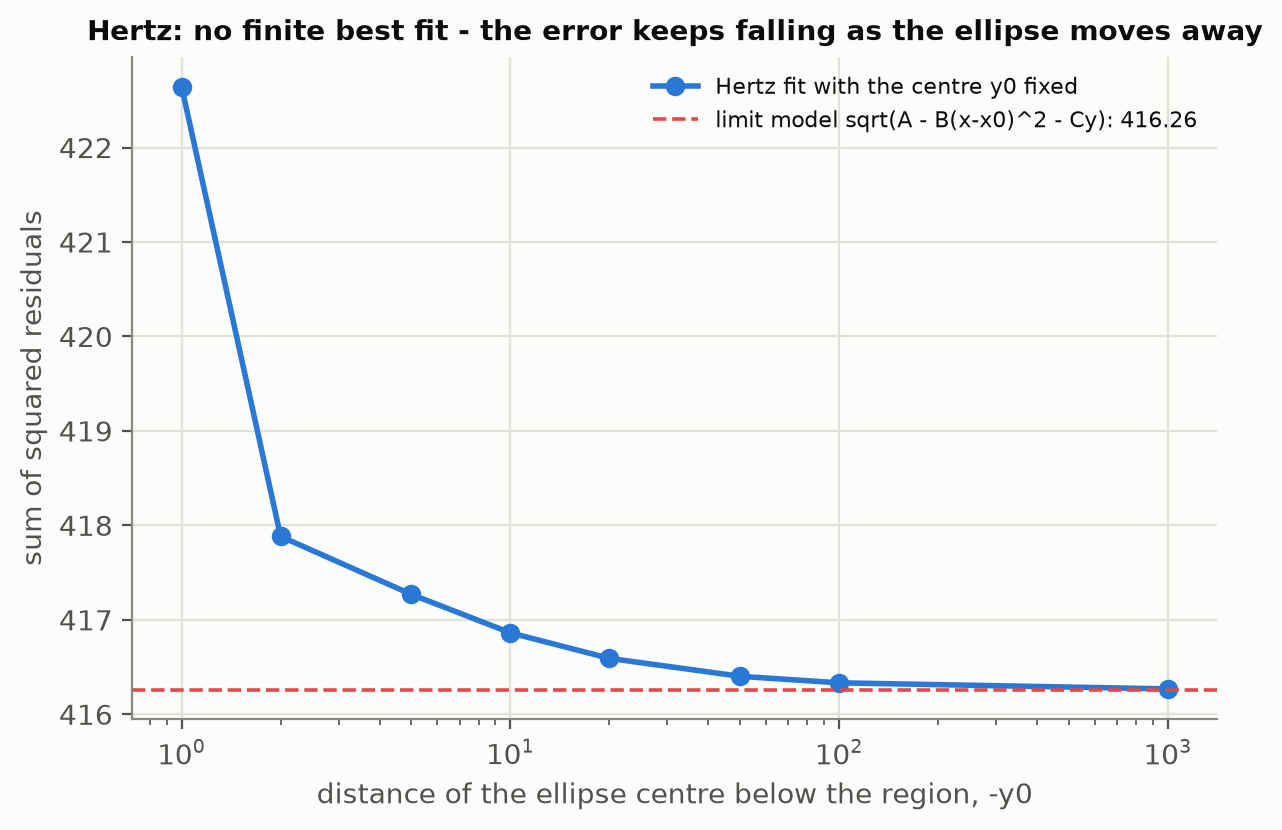
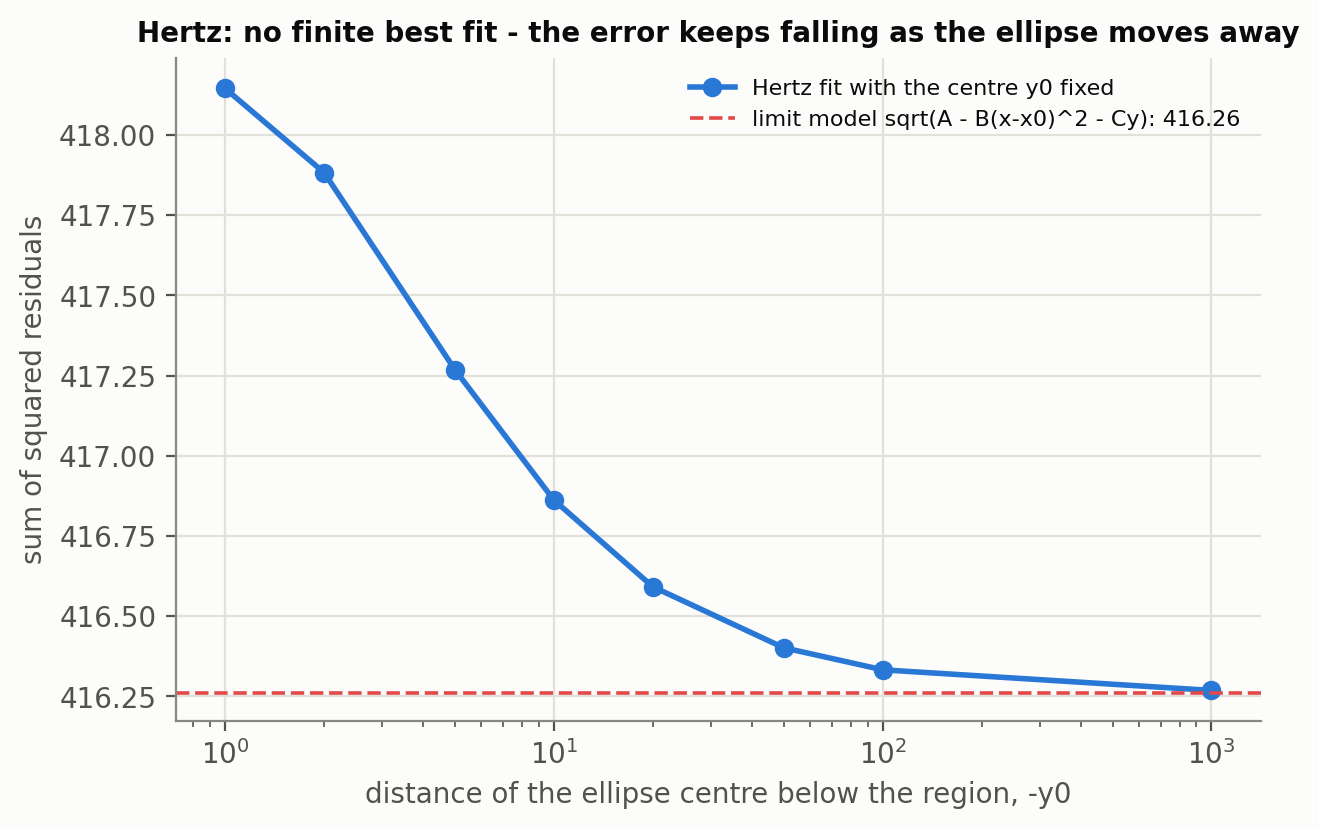
Fix Hertz Jacobian, LOO bound check and Newton labels
对 physical-contact-models 的审阅修正。

- `Hertz.jac`：椭圆外的传感器 p 恒为 0，数据行导数应为 0。原来 s 被截断为 1e-6，
  这些行的导数达到约 4e7，与残差不一致，使 LM 停滞：
  - Table 2 的 y0 = −1 原来跑满 5000 次未收敛（SSE 422.64，S1 已在椭圆外）；
    现在 15 次收敛，SSE 418.14，b = 34.7。其余 7 行不变。
  - A1 的 100 个初值现在全部到达最优（原来 52%），耗时 35 s → 1.8 s。
- 留一法：原来只检查 σ 是否碰界，现在检查所有参数（`bounds_hit`、`finite_rule_answer`）。
  S1、S4 两折的最大 σ 解在 A = 2000 的上界上，放大上界后 σ 继续增大
  （S1：2.14 → 3.08；S4：1.18 → 1.66，预测 514 → 844），规则没有有限解，不再计入
  RMSE_ext。S3、S5 落在 R = 0（退化为单峰高斯，是模型族的边界）。
  RMSE_ext 249.9 → 36.9（只统计 S3、S5）。S2 不变。
- `newton_nd`：只对收敛的点分类，未收敛标为 "not converged"；特征值都约为 0 时判为 flat。
  报告 6.3 节改为：三个起点落入距中心 r* ≈ 0.0961 的 2-周期。
- `requirements.txt` 固定版本（Python 3.12）；新增 4 个测试。
- 用固定版本重跑 run_contact.py，results/ 和 figures/ 一并更新。其余结果只有末位数字
  变化；scipy 对照的命中率 88% → 87%，已同步到报告。

测试：本地 17 个测试中 16 个通过。失败的是新测试自己的前提写错（S3 的 q = 0.944，
不满足 q < 0.9），已改参数；用逐行相同的副本确认修正后通过、旧 Jacobian 下不通过，
但尚未用 pytest 重跑，合并前请再跑一次。

diff --git a/physical_contact_models/run_contact.py b/physical_contact_models/run_contact.py
@@ -25,8 +25,8 @@ from scipy.optimize import least_squares, linprog
 
 import data
 import plotting as P
-from models import (HULL, PR, S2, SEED, X, Y, Hertz, Ring, distinct_exact, edge_max, fit,
-                    hull_y_interval, ring_hull_max, ring_hull_min, select_largest_sigma, sse)
+from models import (HULL, PR, S2, SEED, X, Y, Hertz, Ring, bounds_hit, distinct_exact, edge_max, finite_rule_answer,
+                    fit, hull_y_interval, ring_hull_max, ring_hull_min, select_largest_sigma, sse)
 from numerics.nlls import levenberg_marquardt, multistart_lm
 from numerics.optimize import newton_nd, project_to_polygon, projected_steepest_ascent
 from numerics.rootfind import bisection, newton_raphson, scan_brackets
@@ -111,7 +111,7 @@ def a2_hertz_limit(nums):
         r = levenberg_marquardt(lambda t: Hertz.residual(t, X, Y, PR), start, lo, hi,
                                 jac=lambda t: Hertz.jac(t, X, Y), max_iter=5000)
         rows.append({"y0_fixed": y0, **dict(zip(Hertz.names, r["theta"])), "SSE": sse(Hertz, r["theta"]),
-                     "iterations": r["iterations"]})
+                     "iterations": r["iterations"], "converged": r["converged"]})
     nums["hertz_limit"] = {"A": A, "B": B, "x0": xl, "C": C, "SSE": float(np.sum(res_lim(lim["theta"]) ** 2)),
                            "pred": (res_lim(lim["theta"]) + PR).tolist()}
     return rows
@@ -139,7 +139,11 @@ def b1_solutions(nums, n_starts):
 
 def b2_validation(nums, n_starts):
     """4 training points, 5 parameters: a family of exact fits.  Report its prediction range and the
-    prediction of the fit selected by the same rule (largest sigma)."""
+    prediction of the fit selected by the same rule (largest sigma).
+
+    If the selected fit sits on an artificial cap of the search box, the rule has no finite answer:
+    the fold is re-solved with the A cap raised 10x and 100x to show that sigma and the prediction keep
+    moving, and it is left out of RMSE_ext / MAE_ext."""
     rows = []
     for i in range(5):
         tr = np.array([j for j in range(5) if j != i])
@@ -148,16 +152,30 @@ def b2_validation(nums, n_starts):
         preds = np.array([Ring.f(t, X[i], Y[i]) for t in sols]) if sols else np.array([np.nan])
         ch = select_largest_sigma(sols, X[tr], Y[tr], PR[tr])
         sel = float(Ring.f(ch, X[i], Y[i])) if ch is not None else np.nan
-        rows.append({"left_out": data.NAMES[i], "type": "interpolation" if i == S2 else "extrapolation",
-                     "true_p": PR[i], "pred_selected": sel, "abs_error_selected": abs(sel - PR[i]),
-                     "sigma_selected": ch[4] if ch is not None else np.nan,
-                     "selected_on_sigma_bound": bool(ch is not None and ch[4] > 0.999 * Ring.upper[4]),
-                     "n_distinct_exact_fits": len(sols), "pred_min": float(np.nanmin(preds)),
-                     "pred_median": float(np.nanmedian(preds)), "pred_max": float(np.nanmax(preds))})
-    ext = [r for r in rows if r["type"] == "extrapolation"]
+        finite = bool(ch is not None and finite_rule_answer(ch))
+        row = {"left_out": data.NAMES[i], "type": "interpolation" if i == S2 else "extrapolation",
+               "true_p": PR[i], "pred_selected": sel, "abs_error_selected": abs(sel - PR[i]),
+               "sigma_selected": ch[4] if ch is not None else np.nan,
+               "bounds_hit": ", ".join(bounds_hit(ch)) if ch is not None else "",
+               "rule_has_finite_answer": finite,
+               "n_distinct_exact_fits": len(sols), "pred_min": float(np.nanmin(preds)),
+               "pred_median": float(np.nanmedian(preds)), "pred_max": float(np.nanmax(preds))}
+        if ch is not None and not finite:
+            t = ch
+            for factor in (10, 100):
+                hi = Ring.upper.copy()
+                hi[0] *= factor
+                t = select_largest_sigma([t], X[tr], Y[tr], PR[tr], upper=hi)
+                row[f"sigma_A_cap_x{factor}"] = t[4]
+                row[f"pred_A_cap_x{factor}"] = float(Ring.f(t, X[i], Y[i]))
+        rows.append(row)
+    ext = [r for r in rows if r["type"] == "extrapolation" and r["rule_has_finite_answer"]]
     e = np.array([r["pred_selected"] - r["true_p"] for r in ext])
     nums["ring_validation"] = {"S2": rows[S2], "RMSE_ext": float(np.sqrt(np.mean(e ** 2))),
-                               "MAE_ext": float(np.mean(np.abs(e)))}
+                               "MAE_ext": float(np.mean(np.abs(e))),
+                               "ext_folds_used": [r["left_out"] for r in ext],
+                               "folds_without_finite_answer": [r["left_out"] for r in rows
+                                                               if not r["rule_has_finite_answer"]]}
     return rows
 
 

diff --git a/physical_contact_models/models.py b/physical_contact_models/models.py
@@ -53,12 +53,15 @@ class Hertz:
 
     @classmethod
     def jac(cls, t, x, y):
-        """Analytic Jacobian of ``residual`` (data rows, then penalty rows)."""
+        """Analytic Jacobian of ``residual`` (data rows, then penalty rows).
+
+        A sensor outside the ellipse has p = 0 whatever theta is, so its data row is zero there."""
         p0, x0, y0, a, b = t
         qq = cls.q(t, x, y)
         s = np.sqrt(np.maximum(1e-12, 1 - qq))
         Jd = np.column_stack([s, p0 * (x - x0) / (a * a * s), p0 * (y - y0) / (b * b * s),
                               p0 * (x - x0) ** 2 / (a ** 3 * s), p0 * (y - y0) ** 2 / (b ** 3 * s)])
+        Jd = Jd * (qq < 1)[:, None]
         dq = np.column_stack([np.zeros_like(x), -2 * (x - x0) / a ** 2, -2 * (y - y0) / b ** 2,
                               -2 * (x - x0) ** 2 / a ** 3, -2 * (y - y0) ** 2 / b ** 3])
         return np.vstack([Jd, cls.W * dq * ((qq - (1 - cls.DELTA)) > 0)[:, None]])
@@ -139,32 +142,57 @@ def distinct_exact(model, runs, x, y, p):
     return sols, counts
 
 
-def select_largest_sigma(sols, x=None, y=None, p=None, n_refine=5):
+def select_largest_sigma(sols, x=None, y=None, p=None, n_refine=5, upper=None):
     """Selection rule fixed before looking at (b)/(c): among the exact fits take the broadest ring.
 
     With 5 points the exact fits are isolated, so the largest sampled sigma is the answer.  With 4
     points they form a continuous family and sampling only approximates the largest sigma; then
     (x, y, p given) the best candidates are refined by solving
         maximize sigma  subject to  f(theta; x_i, y_i) = p_i  for every training point
-    with SLSQP (equality constraints).  A result on the sigma bound means the rule has no finite
-    answer for that data set; it is reported as such.
+    with SLSQP (equality constraints), within the bounds Ring.lower .. ``upper`` (default Ring.upper).
+    If the result sits on an artificial cap (see ``finite_rule_answer``), sigma would keep growing
+    with a larger cap: the rule then has no finite answer for that data set.
     """
     if not sols:
         return None
     if x is None:
         return max(sols, key=lambda t: t[4])
     from scipy.optimize import minimize
+    hi = Ring.upper if upper is None else np.asarray(upper, float)
     cons = {"type": "eq", "fun": lambda t: Ring.f(t, x, y) - p, "jac": lambda t: Ring.jac(t, x, y)}
     best = max(sols, key=lambda t: t[4])
     for t0 in sorted(sols, key=lambda t: -t[4])[:n_refine]:
         with warnings.catch_warnings():
             warnings.simplefilter("ignore")
             r = minimize(lambda t: -t[4], t0, jac=lambda t: np.array([0, 0, 0, 0, -1.0]), method="SLSQP",
-                         constraints=[cons], bounds=list(zip(Ring.lower, Ring.upper)),
+                         constraints=[cons], bounds=list(zip(Ring.lower, hi)),
                          options={"maxiter": 1000, "ftol": 1e-14})
         if sse(Ring, r.x, x, y, p) < 1e-8 and r.x[4] > best[4]:
             best = r.x
     return best
+
+
+# R = 0 turns the ring into a single Gaussian bump and A = 0 is zero pressure: edges of the model
+# family.  Every other bound is an arbitrary cap of the search box.
+NATURAL_BOUNDS = {("A", "lower"), ("R", "lower")}
+
+
+def bounds_hit(t, upper=None, rel=1e-6):
+    """Ring parameters of t that sit on a bound, e.g. ["A upper", "R lower"]."""
+    hi = Ring.upper if upper is None else np.asarray(upper, float)
+    out = []
+    for n, v, lo, up in zip(Ring.names, t, Ring.lower, hi):
+        w = rel * (up - lo)
+        if v - lo <= w:
+            out.append(f"{n} lower")
+        elif up - v <= w:
+            out.append(f"{n} upper")
+    return out
+
+
+def finite_rule_answer(t, upper=None):
+    """False if the largest-sigma fit sits on an artificial cap, i.e. the rule has no finite answer."""
+    return all(tuple(b.split()) in NATURAL_BOUNDS for b in bounds_hit(t, upper))
 
 
 # =============================================================================== geometry / extrema

diff --git a/physical_contact_models/tests/test_contact.py b/physical_contact_models/tests/test_contact.py
@@ -3,7 +3,7 @@ contact models (known answers)."""
 import numpy as np
 
 import data
-from models import Hertz, Ring, distinct_exact, fit, ring_hull_max, select_largest_sigma
+from models import Hertz, Ring, bounds_hit, distinct_exact, finite_rule_answer, fit, ring_hull_max, select_largest_sigma
 from numerics.nlls import levenberg_marquardt, numerical_jacobian
 from numerics.optimize import newton_nd, parabolic_max, project_to_polygon, projected_steepest_ascent
 from numerics.rootfind import bisection, newton_raphson, scan_brackets
@@ -124,3 +124,47 @@ def test_own_lm_and_scipy_reach_the_same_hertz_optimum():
     ref, _, on_bound = scipy_hertz_multistart()
     assert abs(sse(Hertz, s["theta"]) - sse(Hertz, ref)) < 1e-6
     assert "y0" in on_bound   # the optimum sits on the y0 bound: the ellipse wants to grow without limit
+
+
+def test_hertz_jacobian_is_zero_for_sensors_outside_the_ellipse():
+    # S1 and S4 lie outside this ellipse (q > 1.1), the other three inside (q < 0.9): p = 0 at S1 and S4
+    # for every nearby theta, so their data rows must be zero; the active penalty rows are checked too
+    th = np.array([40.0, 1.3, 1.0, 1.2, 1.3])
+    q = Hertz.q(th, data.X, data.Y)
+    assert np.sum(q > 1.1) == 2 and np.sum(q < 0.9) == 3
+    np.testing.assert_allclose(Hertz.jac(th, data.X, data.Y),
+                               numerical_jacobian(lambda t: Hertz.residual(t, data.X, data.Y, data.P), th), atol=1e-4)
+
+
+def test_hertz_profile_fits_all_converge_and_decrease():
+    from run_contact import a2_hertz_limit
+    nums = {}
+    rows = a2_hertz_limit(nums)
+    assert all(r["converged"] for r in rows)
+    sse_profile = [r["SSE"] for r in rows]           # y0 = -1, -2, -5, ..., -1000
+    assert all(a > b for a, b in zip(sse_profile, sse_profile[1:]))
+    assert sse_profile[-1] > nums["hertz_limit"]["SSE"]
+
+
+def test_newton_nd_classifies_only_converged_points():
+    # p = x^4 - y^4: the Hessian vanishes at the stationary point, so the second-order test says nothing
+    grad = lambda v: np.array([4 * v[0] ** 3, -4 * v[1] ** 3])  # noqa: E731
+    hess = lambda v: np.diag([12 * v[0] ** 2, -12 * v[1] ** 2])  # noqa: E731
+    assert newton_nd(grad, hess, (1.0, 1.0), max_iter=5)["kind"] == "not converged"
+    r = newton_nd(grad, hess, (1.0, 1.0), max_iter=200)
+    assert r["converged"] and r["kind"].startswith("flat")
+
+
+def test_loo_rule_on_the_A_cap_has_no_finite_answer():
+    # S4 left out: the largest-sigma exact fit sits on the cap A = 2000, and a larger cap gives a larger sigma
+    tr = np.array([0, 1, 2, 4])
+    x, y, p = data.X[tr], data.Y[tr], data.P[tr]
+    seed = np.array([2000.0, 0.3976, 0.3784, 4.7869, 1.1760])
+    t1 = select_largest_sigma([seed], x, y, p)
+    np.testing.assert_allclose(Ring.f(t1, x, y), p, atol=1e-7)
+    assert "A upper" in bounds_hit(t1) and not finite_rule_answer(t1)
+    hi = Ring.upper.copy()
+    hi[0] *= 10
+    t2 = select_largest_sigma([t1], x, y, p, upper=hi)
+    np.testing.assert_allclose(Ring.f(t2, x, y), p, atol=1e-7)
+    assert t2[4] > t1[4] + 0.1

diff --git a/physical_contact_models/numerics/optimize.py b/physical_contact_models/numerics/optimize.py
@@ -9,7 +9,8 @@ parabolic_max(f, a, b)
 
 newton_nd(grad, hess, x0)
     x_{k+1} = x_k - H^{-1} grad.  Finds a STATIONARY point (maximum, minimum or saddle); the
-    eigenvalues of the Hessian at the result classify it.  It ignores constraints.
+    eigenvalues of the Hessian at the result classify it.  Only a converged result is classified;
+    otherwise ``kind`` is "not converged".  It ignores constraints.
 
 projected_steepest_ascent(f, grad, project, x0)
     x_trial = P(x_k + alpha grad f(x_k)), P = projection onto the feasible set.  Backtracking:
@@ -66,18 +67,22 @@ def newton_nd(grad, hess, x0, tol=1e-12, max_iter=50):
         if np.linalg.norm(step) < tol:
             conv = True
             break
-    ev = np.linalg.eigvalsh(hess(x))
+    ev = np.linalg.eigvalsh(hess(x)) if np.all(np.isfinite(x)) else np.full(len(x), np.nan)
     zero = np.abs(ev) <= 1e-6 * max(1.0, np.abs(ev).max())
-    if np.all(ev < 0) and not zero.any():
+    if not conv:
+        kind = "not converged"
+    elif zero.all():
+        kind = "flat (all eigenvalues ~ 0)"
+    elif np.all(ev < 0) and not zero.any():
         kind = "maximum"
     elif np.all(ev > 0) and not zero.any():
         kind = "minimum"
-    elif np.all((ev < 0) | zero) and not zero.all():
+    elif np.all((ev < 0) | zero):
         kind = "degenerate maximum (semi-definite Hessian, non-isolated)"
-    elif np.all((ev > 0) | zero) and not zero.all():
+    elif np.all((ev > 0) | zero):
         kind = "degenerate minimum (semi-definite Hessian, non-isolated)"
     else:
-        kind = "saddle" if (ev.min() < 0 < ev.max()) else "flat (all eigenvalues ~ 0)"
+        kind = "saddle"
     return {"x": x, "iterations": it, "converged": conv, "eig": ev, "kind": kind}
 
 

diff --git a/physical_contact_models/report/physical_contact_models.md b/physical_contact_models/report/physical_contact_models.md
@@ -40,10 +40,12 @@ gradient are frozen for that step (active set). We ran the solver from 100 rando
 
 | Solver | p0 | x0 | y0 | a | b | SSE | runs reaching the best SSE |
 |---|---|---|---|---|---|---|---|
-| Levenberg–Marquardt (own) | 35.06 | 1.731 | **−5.00 (bound)** | 1.790 | 22.38 | 417.27 | 52 % |
-| scipy trust-region (check) | 35.06 | 1.731 | −5.00 (bound) | 1.790 | 22.38 | 417.27 | 88 % |
+| Levenberg–Marquardt (own) | 35.06 | 1.731 | **−5.00 (bound)** | 1.790 | 22.38 | 417.27 | 100 % |
+| scipy trust-region (check) | 35.06 | 1.731 | −5.00 (bound) | 1.790 | 22.38 | 417.27 | 87 % |
 
-Both solvers reach the same optimum. The fitted pressures at S1–S5 are 2.19, 32.66, 33.98, 29.52 and 26.60,
+Both solvers reach the same optimum. (The analytic Jacobian is zero for a sensor outside the ellipse,
+where p = 0 whatever the parameters are. Before this was imposed, only about half of the starts reached
+the best SSE.) The fitted pressures at S1–S5 are 2.19, 32.66, 33.98, 29.52 and 26.60,
 compared with the measured 2, 17, 43, 28 and 36 (RMSE 9.14). **The Hertz model cannot pass through the
 data.**
 
@@ -71,10 +73,10 @@ values and refitted the remaining parameters (Table 2, Fig. 1).
 
 | y0 | −1 | −2 | −5 | −10 | −20 | −50 | −100 | −1000 |
 |---|---|---|---|---|---|---|---|---|
-| SSE | 422.64 | 417.88 | 417.27 | 416.86 | 416.59 | 416.40 | 416.33 | 416.27 |
-| b | 41.8 | 20.8 | 22.4 | 28.7 | 40.7 | 73.3 | 124.8 | 1026.8 |
+| SSE | 418.14 | 417.88 | 417.27 | 416.86 | 416.59 | 416.40 | 416.33 | 416.27 |
+| b | 34.7 | 20.8 | 22.4 | 28.7 | 40.7 | 73.3 | 124.8 | 1026.8 |
 
-The error keeps decreasing as the ellipse moves away. Expanding the model for $y_0\to-\infty$,
+All eight fits converge with every sensor inside the ellipse. The error keeps decreasing as the ellipse moves away. Expanding the model for $y_0\to-\infty$,
 $b\to\infty$ gives the four-parameter limit
 
 $$p = \sqrt{A - B(x-x_0)^2 - C\,y},$$
@@ -149,28 +151,34 @@ the full range over all four exact fits alongside every result for the selected 
 With four training points the five parameters are underdetermined, and the exact fits form a continuous
 family. The same rule was applied: maximise σ subject to the fit passing exactly through the four points.
 This was solved as an equality-constrained optimisation (SLSQP), started from the best of 1000 sampled
-exact fits. In every fold the maximum lies strictly inside the parameter bounds, so the rule has a
-well-defined answer.
+exact fits. Only in the S2 fold does the maximum lie strictly inside the parameter bounds. In the S3 and S5
+folds it lies at R = 0, where the ring degenerates into a single Gaussian peak; this is an edge of the model
+family, so the rule still has a well-defined answer. In the S1 and S4 folds it lies on the amplitude cap
+A = 2000 of the search box. Raising that cap raises σ further (S1: 2.14 → 3.08, S4: 1.18 → 1.66 for a
+cap 100 times larger), so the rule has **no finite answer** there, and the prediction only reflects the
+arbitrary cap.
 
 **Table 4 Leave-one-out validation of the ring model**
 
 | Left out | Type | True p | Prediction (selected fit) | Abs. error | Prediction range over all exact fits |
 |---|---|---|---|---|---|
 | S2 | interpolation | 17 | 32.97 | 15.97 | 0.01 – 159.8 |
-| S1 | extrapolation | 2 | 106.68 | 104.68 | 0.00 – 106.7 |
+| S1 | extrapolation | 2 | no finite answer (106.7 at A ≤ 2000, 113.7 at A ≤ 2·10⁵) | — | 0.00 – 106.7 |
 | S3 | extrapolation | 43 | 1.44 | 41.56 | 0.00 – 117.0 |
-| S4 | extrapolation | 28 | 513.97 | 485.97 | 0.00 – 514.0 |
+| S4 | extrapolation | 28 | no finite answer (514.0 at A ≤ 2000, 843.5 at A ≤ 2·10⁵) | — | 0.00 – 514.0 |
 | S5 | extrapolation | 36 | 4.34 | 31.66 | 0.00 – 188.5 |
 
-Over the four extrapolation folds, RMSE_ext = 249.9 and MAE_ext = 166.0.
+Over the two extrapolation folds with a finite answer (S3, S5), RMSE_ext = 36.9 and MAE_ext = 36.6; for
+S1 and S4 the rule gives no prediction at all. The upper ends of the S1 and S4 ranges are the capped fits
+and would also grow with the cap.
 
 Two points must be stated clearly.
 
 1. **The S2 test is not independent for this model.** The ring model was chosen *because* S2 is a local
    low (Section 1.3). The data point used to validate the model therefore also motivated it.
 2. **Four points do not constrain the ring.** The exact four-point fits predict anything from 0 to 160 at
-   S2, so the selected fit's error of 16.0 reflects the selection rule as much as the model. The
-   extrapolation errors are extreme. A ring fitted to four points can put its crest almost anywhere.
+   S2, so the selected fit's error of 16.0 reflects the selection rule as much as the model. In two of
+   the four extrapolation folds the rule does not even give a finite prediction.
 
 ---
 
@@ -256,11 +264,13 @@ applied parabolic interpolation inside the bracket around the best sample. The r
 Newton's method solves $\nabla p = 0$ and therefore finds stationary points of any type. From five
 starting points inside the hull, (0.5, 0.5), (1.0, 1.0), (1.5, 0.5), (1.5, 1.5) and (2.0, 1.0):
 
-- **Three starts are attracted to the ring centre (0.47, 0.45),** the location of the minimum. They do not
-  converge. After 100 iterations they still wander at distance ≈ 0.1 from the centre (p ≈ 0.28, Hessian
-  eigenvalues 8.43 and 16.86, i.e. minimum-like curvature). The reason is that $r$ is not differentiable
-  at the centre (the surface has a small cone-shaped tip there), so $\nabla p=0$ has no solution at that
-  point.
+- **Three starts fall into a period-2 cycle around the ring centre (0.47, 0.45),** the location of the
+  minimum. They jump back and forth between two points on opposite sides of the centre, at distance
+  r* ≈ 0.0961 (p ≈ 0.28). Near the centre p depends on r only, and at r* the radial Newton step maps r to
+  −r. The cause is that $r$ is not differentiable at the centre (the surface has a small cone-shaped tip
+  there), so $\nabla p=0$ has no solution at that point. The Hessian at the cycle points has eigenvalues
+  8.43 and 16.86 (ratio exactly 2, a consequence of the cycle condition), which look like a minimum, but
+  the iteration does not converge and is reported as "not converged".
 - **One start drifts far outside the region,** where the surface is flat.
 - **One start, (2.0, 1.0), reaches the crest** at (2.350, 1.126), outside the hull, with p = 65.20.
   There the Hessian eigenvalues are −196.7 and **0**: the maximum is **degenerate**, because it is not an
@@ -329,7 +339,11 @@ recovered exactly from the five sensor positions.
 5. **Methodological lessons.** Multi-start optimisation is essential: 2000 starts found four solutions,
    and the least frequent was found only 7 times. Newton's method finds minima and saddle points as
    readily as maxima, and fails at non-isolated maxima. Parabolic interpolation along an edge needs a
-   preceding scan when the edge function is not unimodal.
+   preceding scan when the edge function is not unimodal. An analytic Jacobian must match the residual
+   everywhere, including where the model is flat. A Hertz Jacobian that was nonzero outside the ellipse
+   left about half of the Levenberg–Marquardt runs and one row of Table 2 unconverged. An optimum on an
+   arbitrary cap of the search box is not an answer, so the bound check must cover every parameter,
+   not only the one being optimised.
 
 **Outlook.** Among the two contact models, only the ring is compatible with the measurements. However, its
 S2 hold-out error (16.0) and its sensitivity to noise above 2 % show that five sensors do not fix the ring's

diff --git a/physical_contact_models/README.md b/physical_contact_models/README.md
@@ -26,12 +26,13 @@ The written analysis is in [`report/physical_contact_models.md`](report/physical
 ```
 python -m venv .venv
 .venv\Scripts\python -m pip install -r requirements.txt       # Windows (Linux/macOS: .venv/bin/python)
-.venv\Scripts\python -m pytest                                # 13 tests, about 1 minute
+.venv\Scripts\python -m pytest                                # 17 tests, about 20 seconds
 .venv\Scripts\python run_contact.py                           # full analysis, about 11 minutes
 .venv\Scripts\python run_contact.py --mc 20 --out out         # quick run into out/ (keeps results/ intact)
 ```
 
-Everything is seeded, so a full run reproduces the committed `results/` and `figures/`.
+Everything is seeded, and `requirements.txt` pins the package versions (Python 3.12). With those versions a
+full run reproduces the committed `results/` and `figures/`; other versions may change the last digits.
 
 ## Files
 
